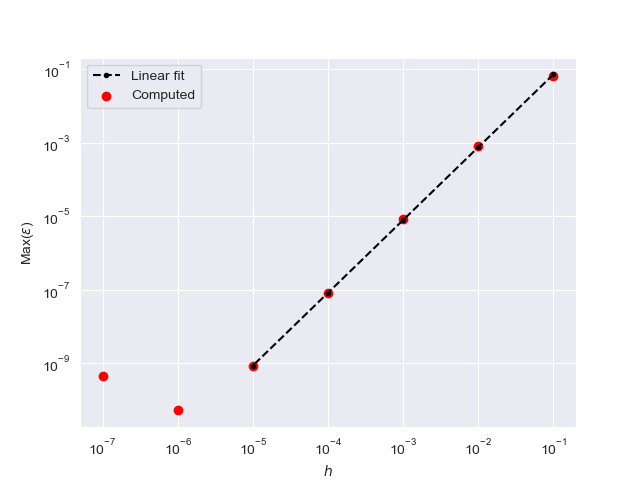
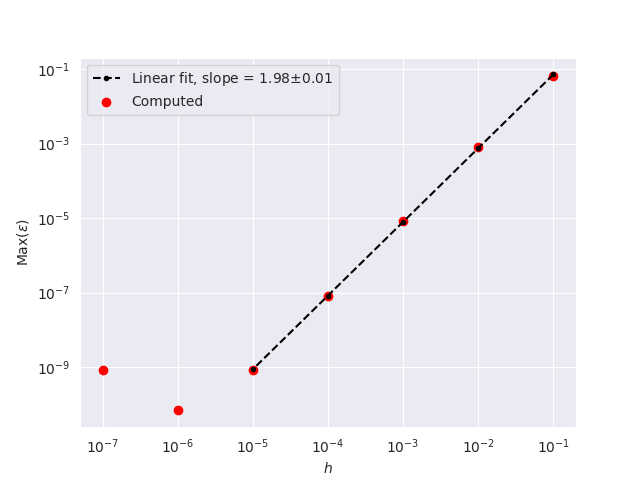
La til slope i label

diff --git a/Project1/code/plot.py b/Project1/code/plot.py
@@ -54,12 +54,11 @@ def plot_data(method, max_p):
 	rel_error = np.array(rel_error)
 	H = np.array(H)
 	slope, const, r_value, p_value, std_err = stats.linregress(np.log10(H[:5]), np.log10(rel_error[:5]))
-	print(slope, std_err)
 	with sns.axes_style("darkgrid"):
 		fig, ax = plt.subplots(nrows=1, ncols=1)
 		ax.set(yscale="log", xscale="log", xlabel="$h$", ylabel="Max($\epsilon$)")
 		ax.plot(H[:5], 10**const * H[:5]**slope, c="k", \
-				label="Linear fit", linestyle="dashed", marker='o', markersize=3)
+				label=f"Linear fit, slope = {slope:.2f}$\pm${std_err:.2f}", linestyle="dashed",marker='o', markersize=3)
 		ax.scatter(H, rel_error, c="r", label="Computed")
 		ax.legend()
 		plt.show()
